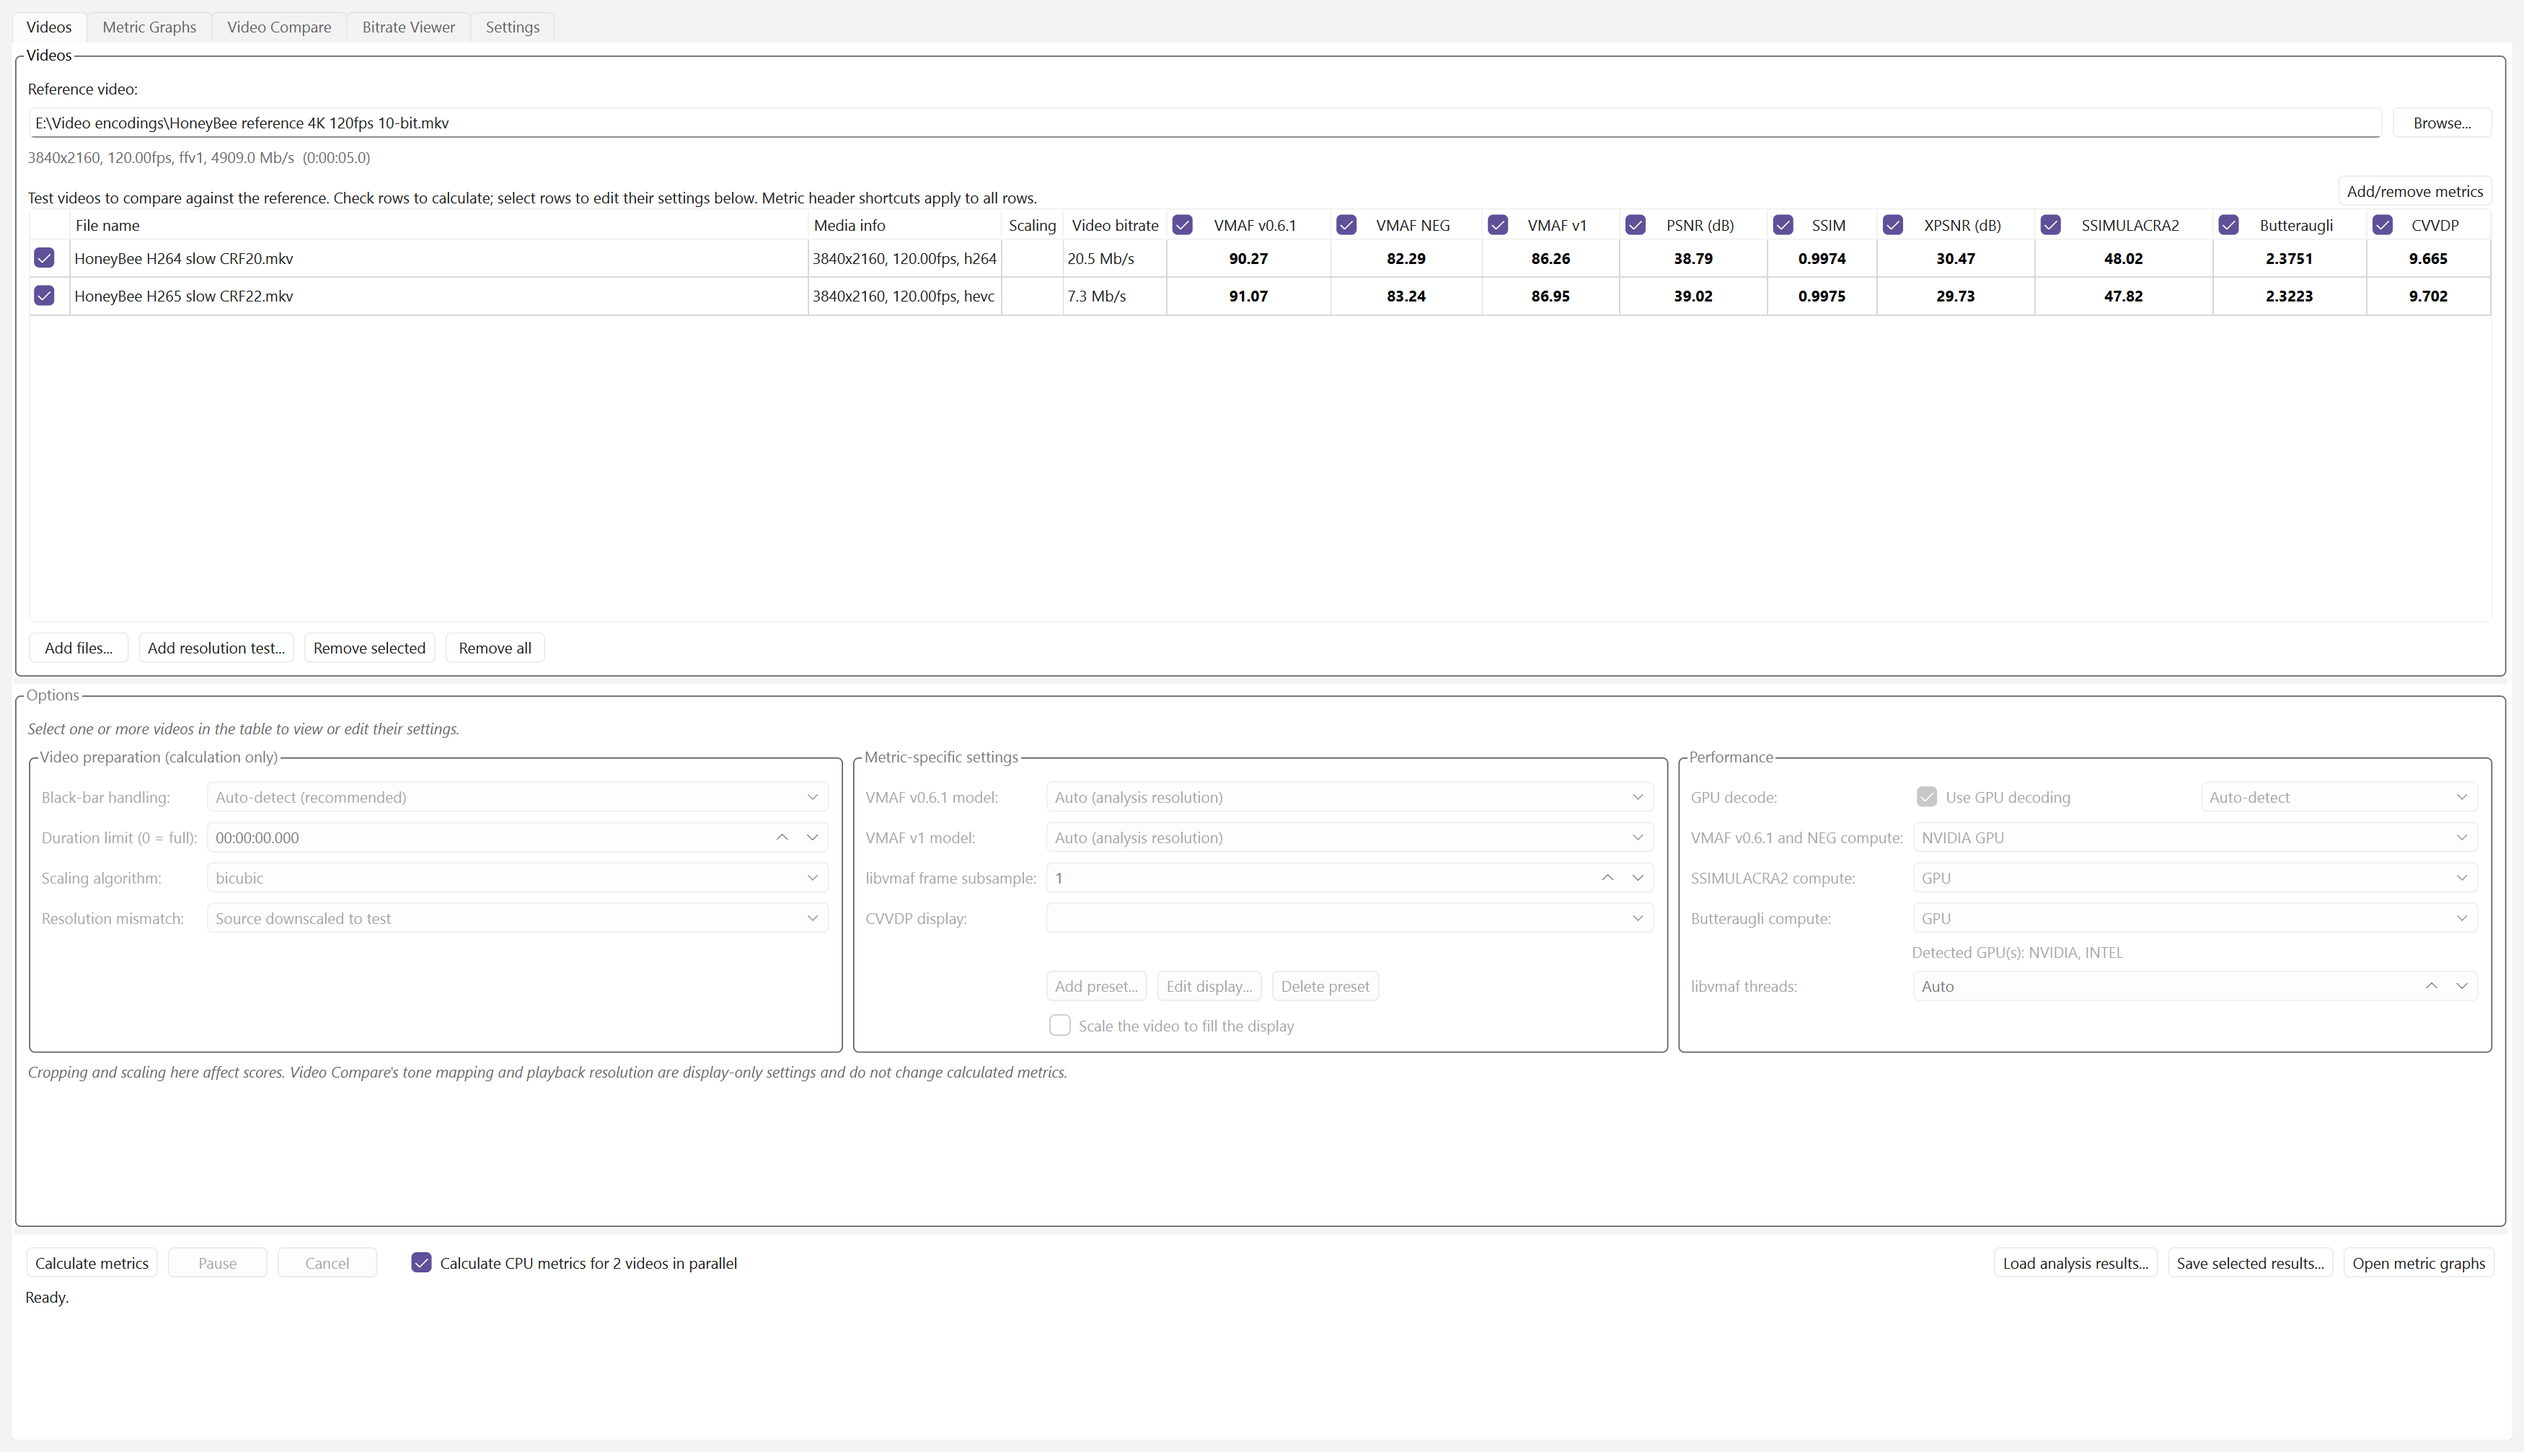
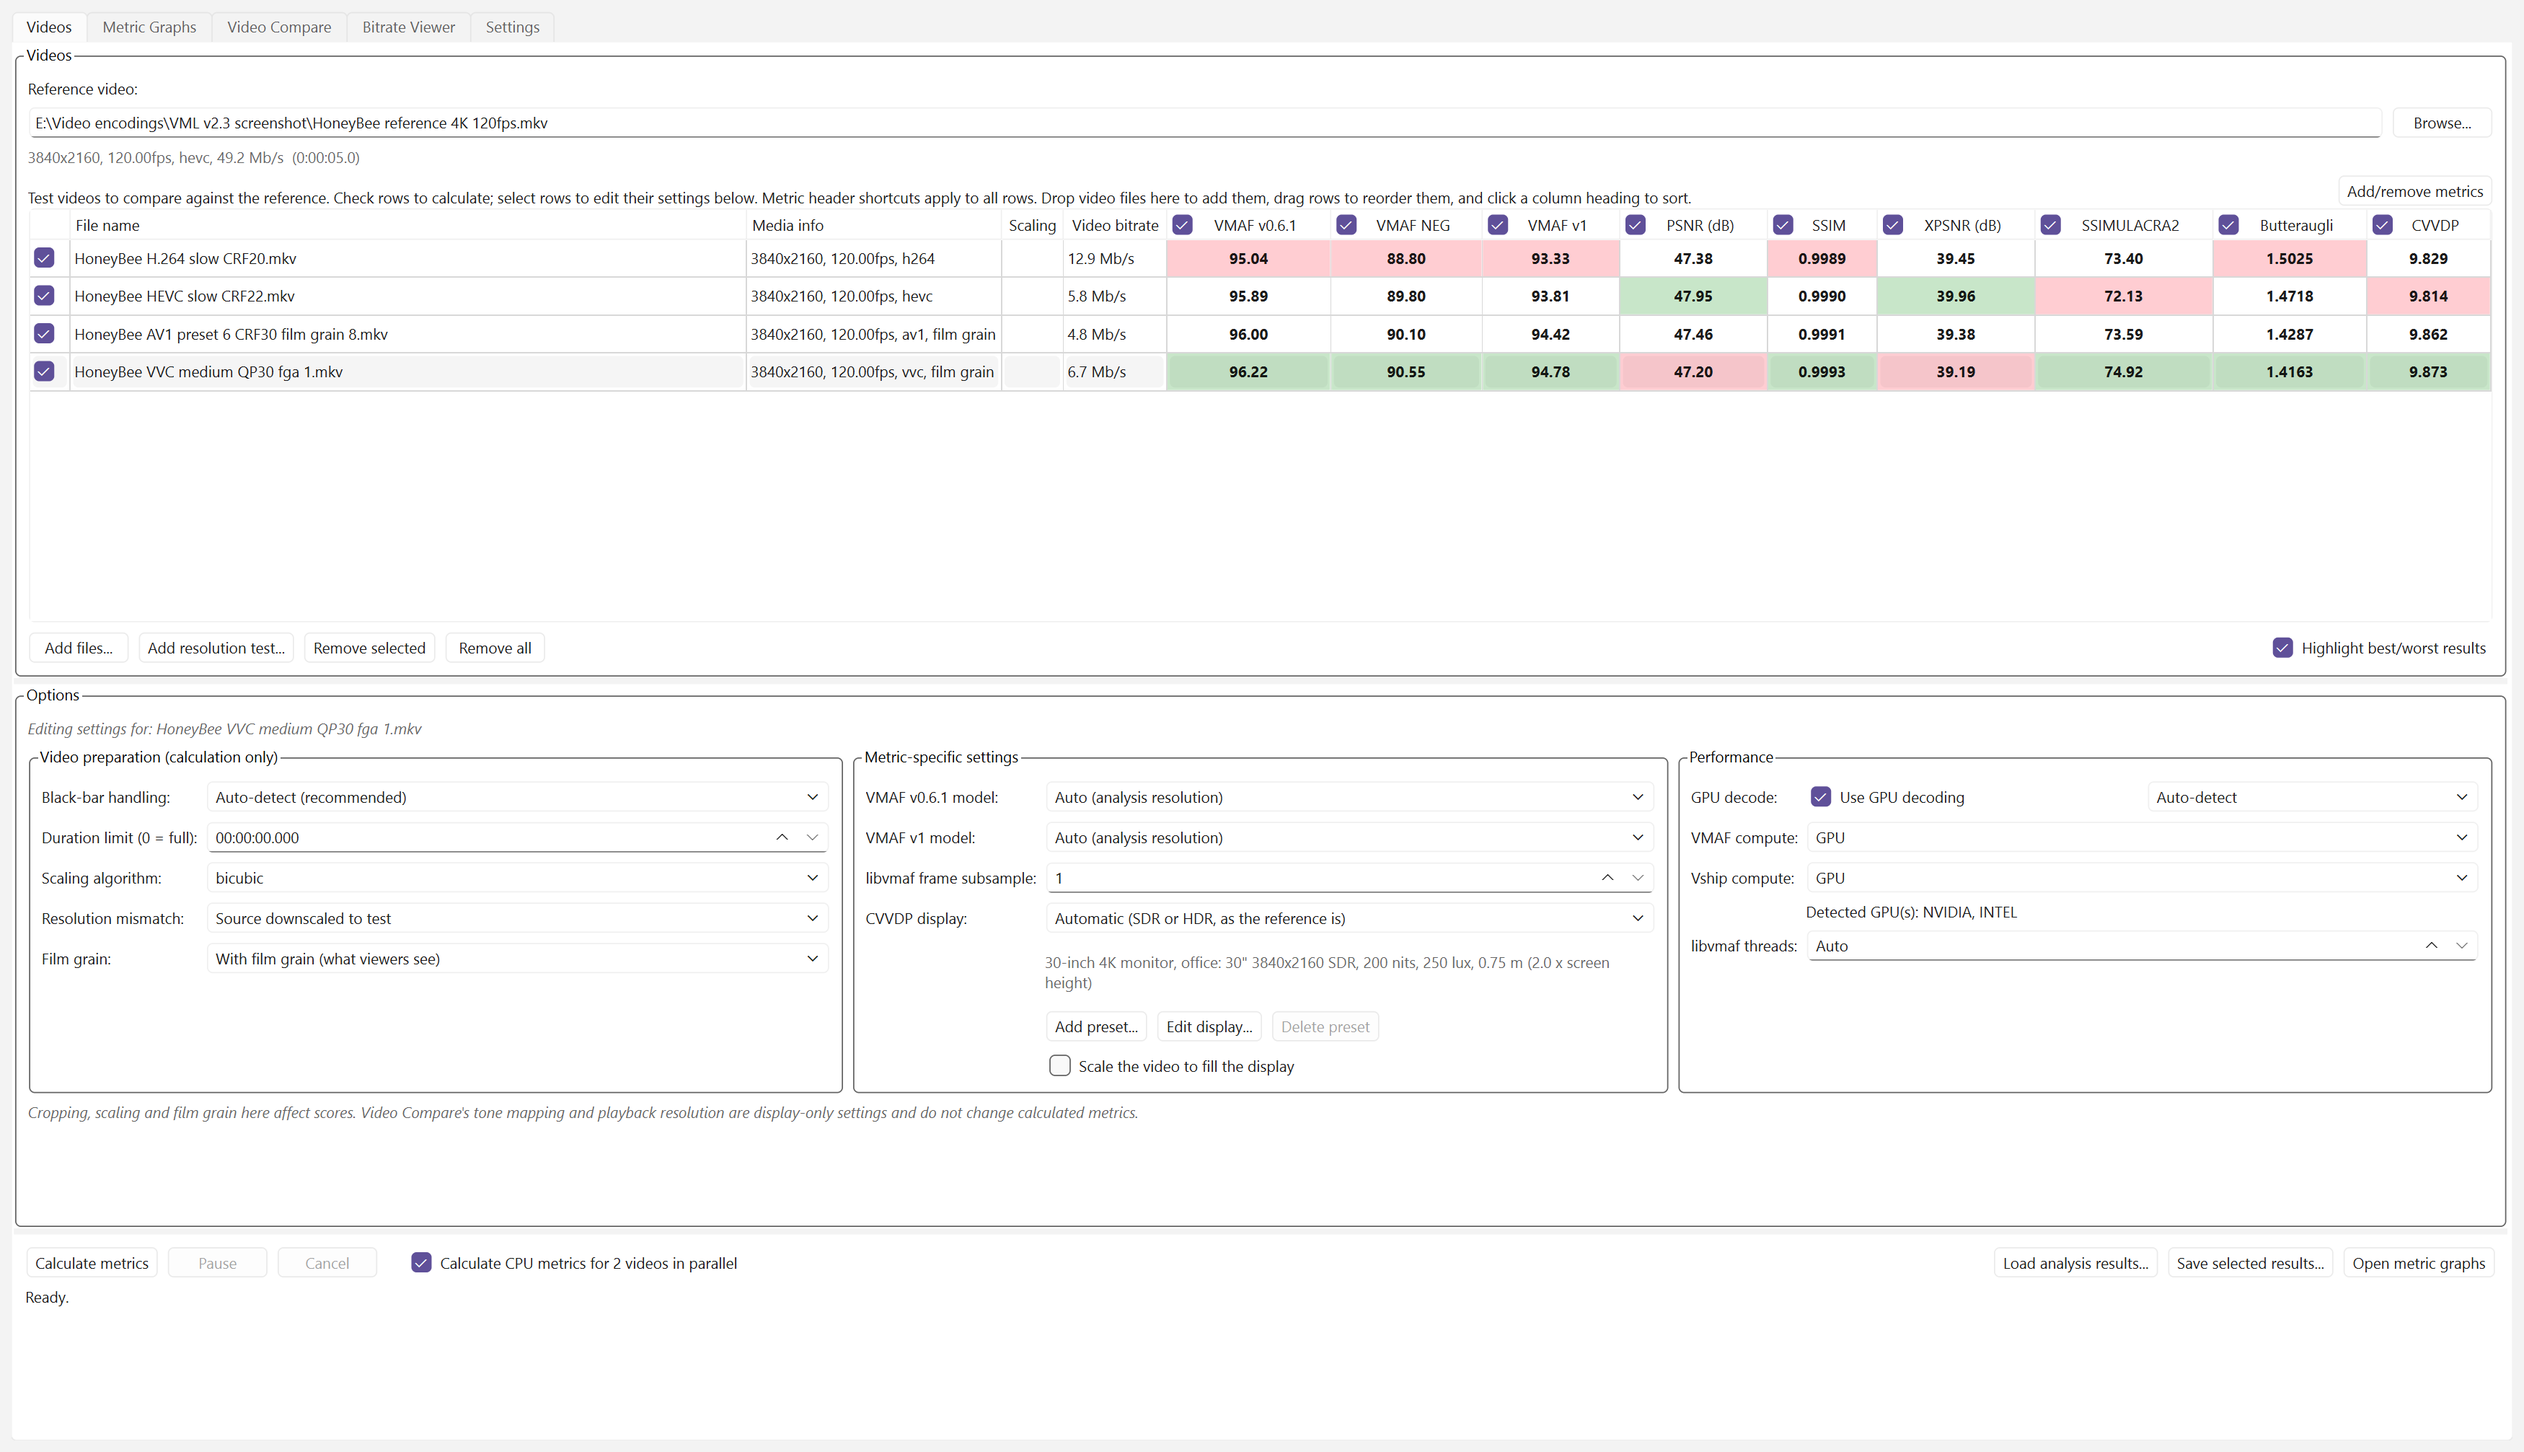
Project website: v2.3 -- "New in v2.3" with v2.3's summary line and a link to its release notes, the feature list as the README's, the software version 2.3, and the Videos screenshot of v2.3 (91408ee on release/v2.3: H.264, HEVC, AV1 and VVC encodes, the Film grain option, Vship compute "GPU")

diff --git a/index.html b/index.html
@@ -20,7 +20,7 @@
   "name": "VideoMetricsLab",
   "applicationCategory": "MultimediaApplication",
   "operatingSystem": "Windows 10, Windows 11, macOS 14.4",
-  "softwareVersion": "2.2.1",
+  "softwareVersion": "2.3",
   "offers": {"@type": "Offer", "price": "0", "priceCurrency": "USD"},
   "license": "https://opensource.org/licenses/MIT",
   "url": "https://4kvcd.github.io/VideoMetricsLab/",
@@ -84,12 +84,9 @@ before it ships.</p>
 libvmaf, installed separately. Free and open source, under the MIT licence.</p>
 
 <section class="news">
-<h2>New in v2.2.1</h2>
-<p>VideoMetricsLab now runs on macOS (Apple silicon), and SSIMULACRA2, Butteraugli and ColorVideo VDP use
-<a href="https://github.com/4KVCD/Vship-fast">Vship-fast</a>: Butteraugli <strong>1.75x-2.5x</strong>, ColorVideo
-VDP <strong>1.6x-2.4x</strong> and SSIMULACRA2 up to <strong>1.6x</strong> faster, and as accurate as libjxl and
-pycvvdp. See the
-<a href="https://github.com/4KVCD/VideoMetricsLab/releases/tag/v2.2.1">release notes</a>.</p>
+<h2>New in v2.3</h2>
+<p>v2.3 adds VVC film grain support, adds AV2 decoding, improves VVC scoring speed up to <strong>2x</strong>, AMD GPU speed <strong>1.3x-2x</strong>, and adds back Vship as an option. Various bug fixes including wrong scoring for H.264 lossless, MPEG-2, and MPEG-4 Part 2 on certain GPUs. See the
+<a href="https://github.com/4KVCD/VideoMetricsLab/releases/tag/v2.3">release notes</a>.</p>
 </section>
 
 <h2>Features</h2>
@@ -98,19 +95,20 @@ pycvvdp. See the
 <ul>
 <li>VMAF v0.6.1, VMAF NEG, VMAF v1, PSNR, SSIM, XPSNR, SSIMULACRA2, Butteraugli and ColorVideo VDP, for many test videos at once.</li>
 <li>VMAF models for standard, phone, 4K and HFR viewing.</li>
+<li>Film grain scored as viewers see it, or without it: VVC, AV1 and AFGS1 grain, at any bit depth.</li>
 </ul>
 
 <h3>Fast on any GPU</h3>
 <ul>
-<li>VMAF, VMAF NEG and VMAF v1 on NVIDIA, AMD, Intel and Apple GPUs with <a href="https://github.com/4KVCD/libvmaf-fast">libvmaf-fast</a>: VMAF v1 up to <strong>17x</strong> faster.</li>
-<li>SSIMULACRA2, Butteraugli and ColorVideo VDP on any GPU with <a href="https://github.com/4KVCD/Vship-fast">Vship-fast</a> (Vulkan); libjxl on the CPU when no GPU can be used, for SSIMULACRA2 and Butteraugli.</li>
+<li>VMAF, VMAF NEG and VMAF v1 on NVIDIA, AMD, Intel and Apple GPUs with <a href="https://github.com/4KVCD/libvmaf-fast">libvmaf-fast</a>: VMAF and VMAF NEG <strong>3.2x-4.4x</strong> faster than with CUDA on NVIDIA, and VMAF v1 up to <strong>17x</strong> faster.</li>
+<li>SSIMULACRA2, Butteraugli and ColorVideo VDP on any GPU with <a href="https://github.com/4KVCD/Vship-fast">Vship-fast</a> (Vulkan), as accurate as libjxl and pycvvdp; stock Vship for any video you choose or when Vship-fast fails, and libjxl on the CPU calculates SSIMULACRA2 and Butteraugli when no GPU can.</li>
 <li>PSNR, SSIM and XPSNR <strong>2.7x-11x</strong> faster, calculated in the app.</li>
-<li>GPU video decoding, with software decoding for formats the GPU can't handle, such as VVC.</li>
+<li>GPU video decoding, with software decoding for the rest: VVC with Fraunhofer's VVdeC, and AV2 with VideoLAN's dav2d.</li>
 </ul>
 
 <h3>Compare and inspect</h3>
 <ul>
-<li>Frame-exact playback that switches instantly between the source and each encode (hold <strong>S</strong>), with zoom, at up to 120 fps in 4K HDR.</li>
+<li>Frame-exact playback that switches instantly between the source and each encode (hold <strong>S</strong>), with zoom, at up to 120 fps in 4K HDR, with film grain shown as it is scored.</li>
 <li>Metric curves, statistics and per-frame scores (per second for ColorVideo VDP), with each metric's best and worst results highlighted.</li>
 <li>Bitrate by frame, second or GOP.</li>
 </ul>
@@ -118,15 +116,17 @@ pycvvdp. See the
 <h3>Workflow</h3>
 <ul>
 <li>Black bars and resolution mismatches handled automatically.</li>
-<li>Results saved and reloaded automatically.</li>
+<li>Results saved and reloaded automatically; a metric added later is the only one calculated.</li>
+<li>Scores and statistics exported as CSV or JSON.</li>
 <li>Drag and drop videos, sort and reorder the list, and a dark theme.</li>
-<li>A command line, <code>VideoMetricsLab-cli</code>, for scripts.</li>
+<li>A command line, <code>VideoMetricsLab-cli</code>, for scripts, which also reads raw video streams and .yuv files.</li>
 <li>Two test videos calculated in parallel on many-core CPUs.</li>
+<li>A native C++ app: a 34 MB download on Windows.</li>
 </ul>
 
 <h2>Screenshots</h2>
 <figure>
-<img src="img/01-videos.png" width="3500" height="2013" loading="lazy" alt="VideoMetricsLab's Videos tab with H.264 and HEVC test encodes and their VMAF, PSNR, SSIM and XPSNR scores">
+<img src="img/01-videos.png" width="3500" height="2013" loading="lazy" alt="VideoMetricsLab's Videos tab with H.264, HEVC, AV1 and VVC test encodes, their scores in every metric, and the Film grain option">
 <figcaption>Videos: configure each test encode, inspect its codec and bitrate, and calculate many metrics in one run.</figcaption>
 </figure>
 <figure>
